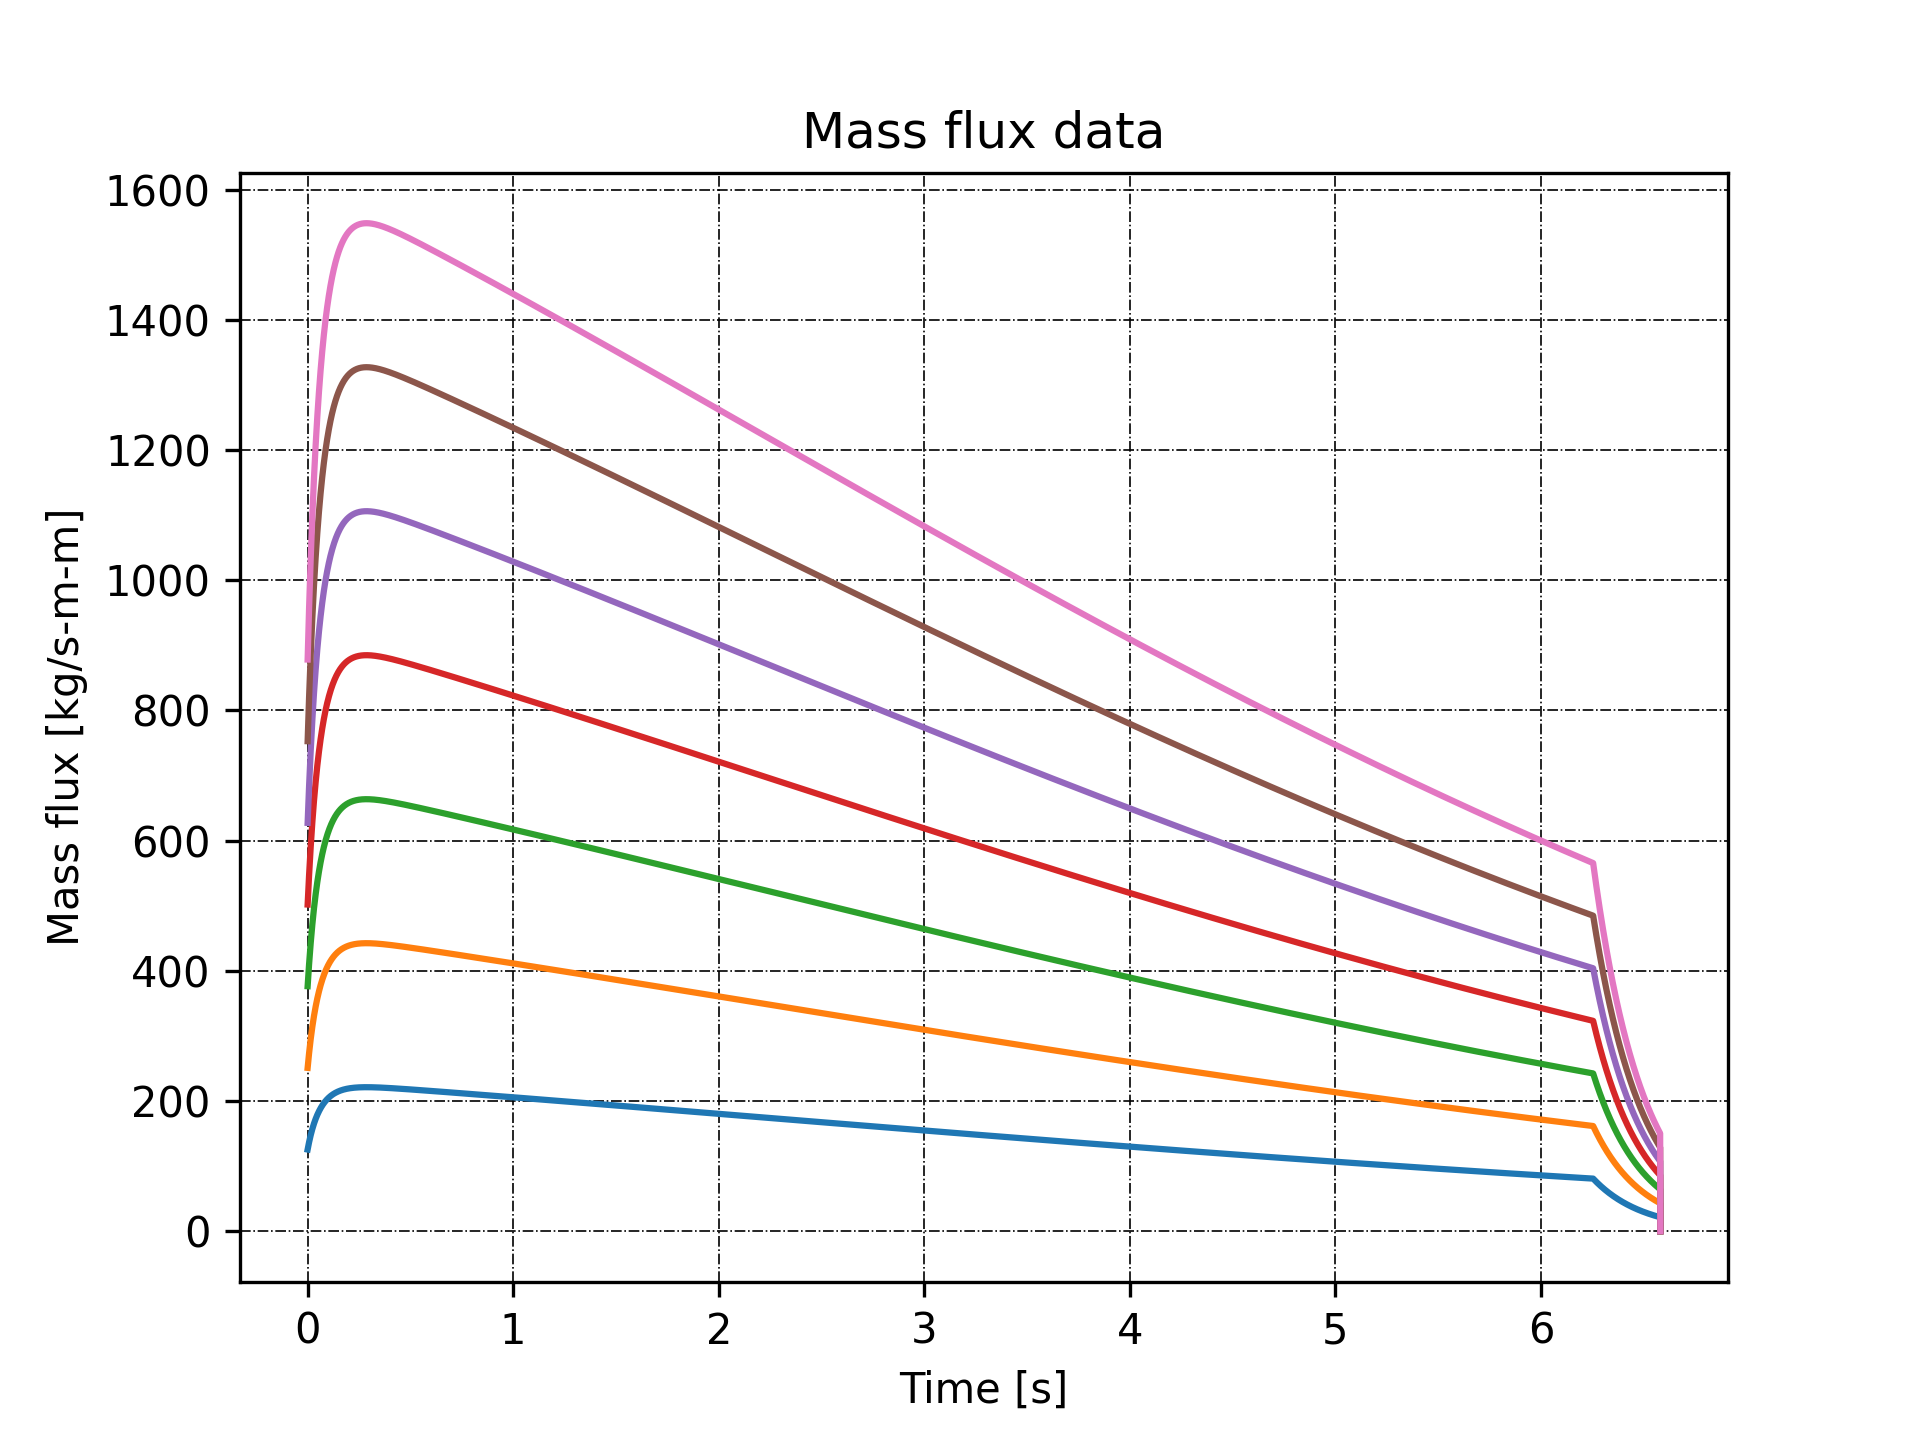
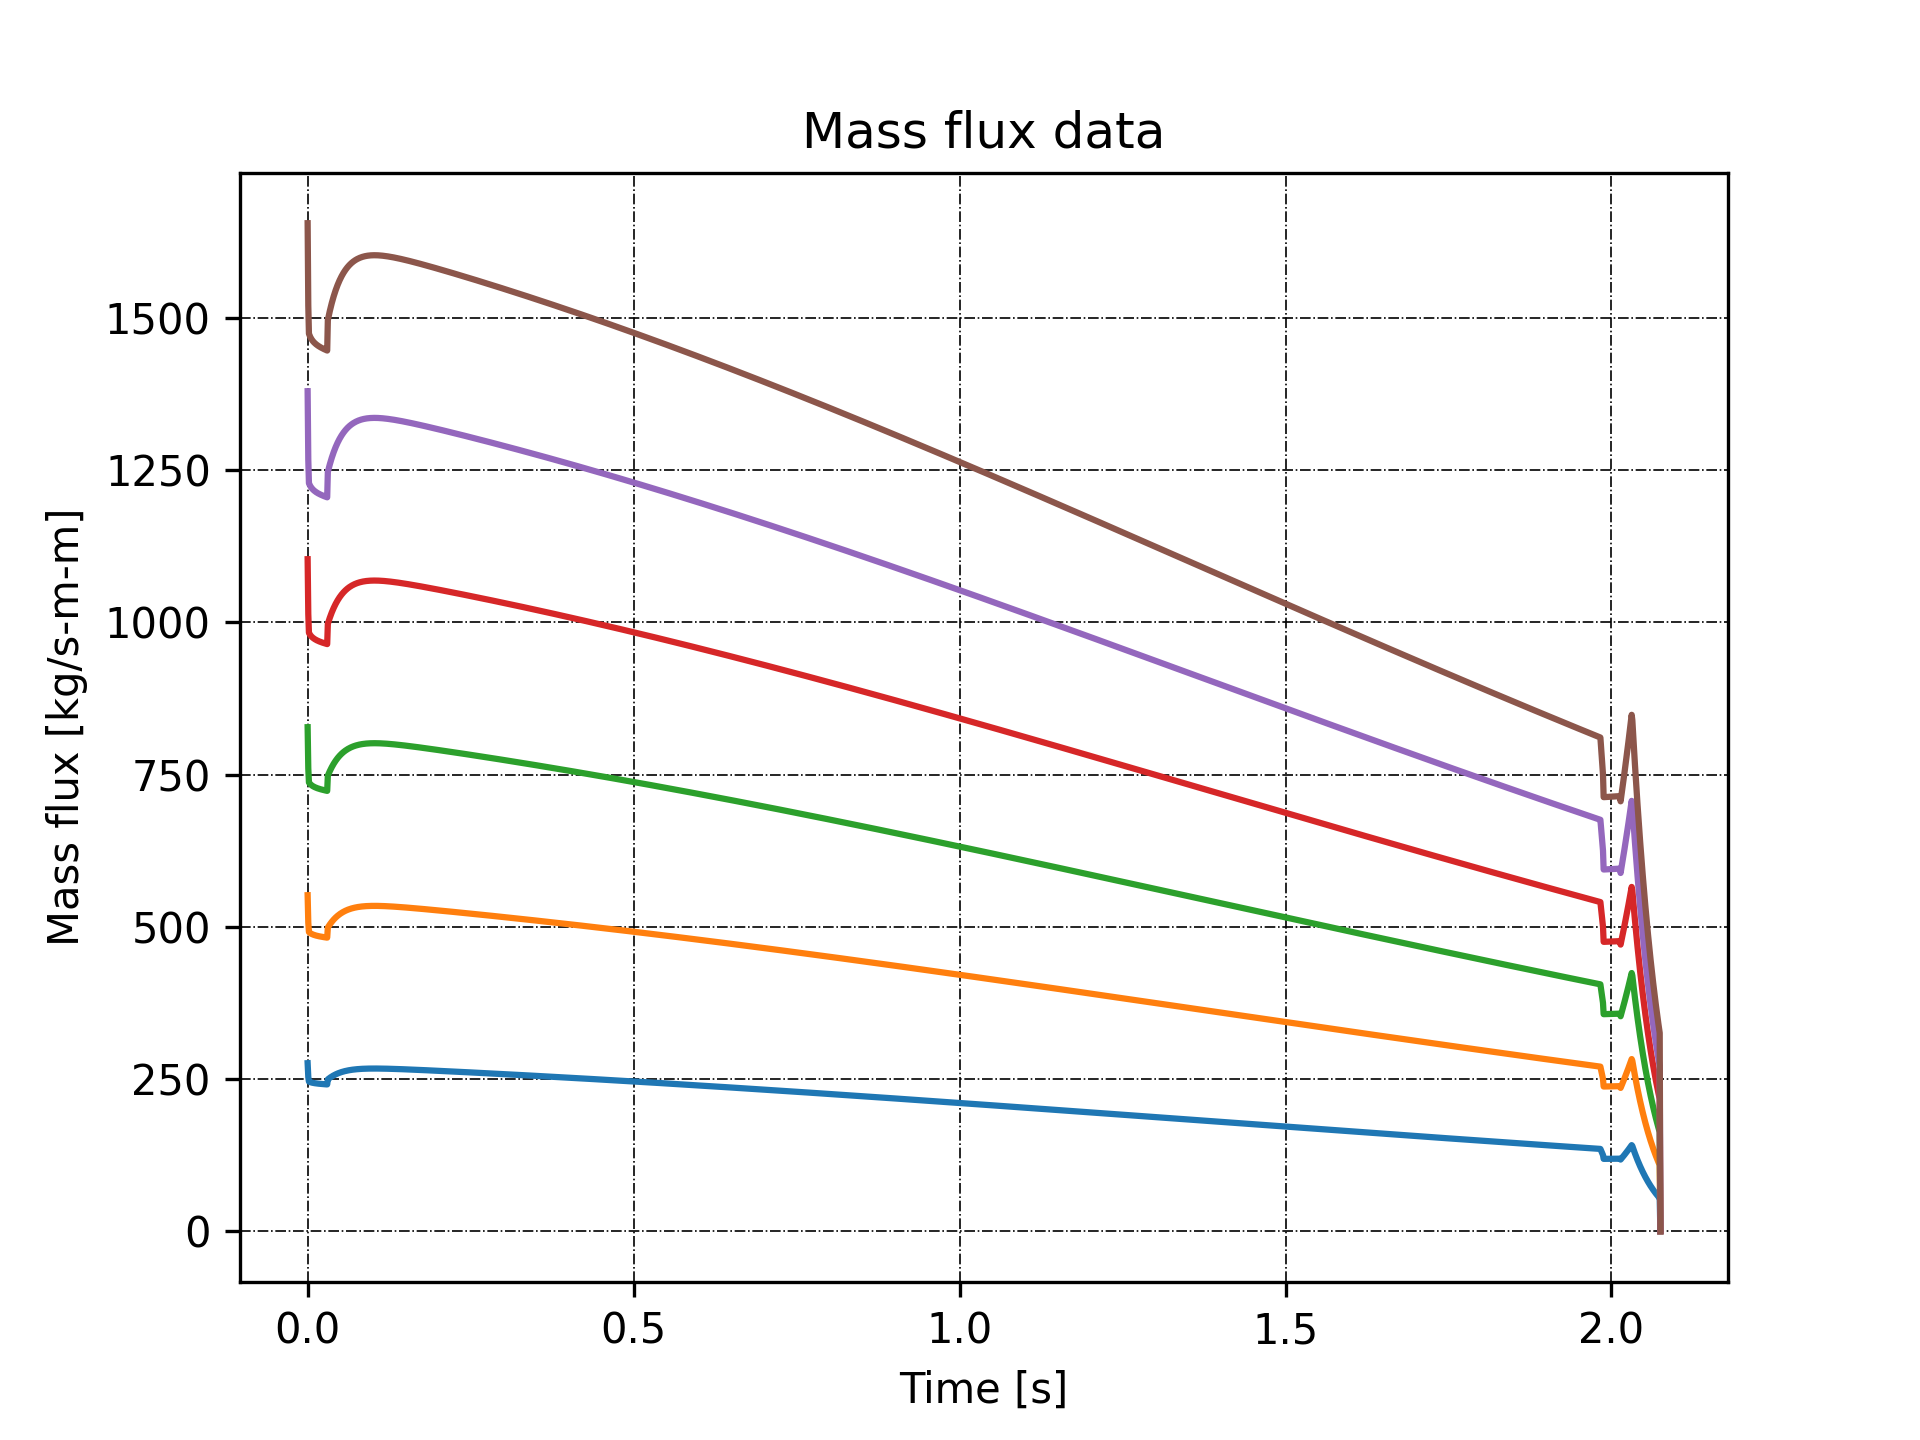
Version Alpha

diff --git a/SRM Solver.py b/SRM Solver.py
@@ -70,7 +70,7 @@ name = 'NV3'
 # Motor manufacturer (NO SPACES):
 manufacturer = 'LP'
 # Motor structural mass [kg]:
-m_motor = 4.5
+m_motor = 20
 
 # SIMULATION PARAMETERS INPUT
 # Web regression resolution:
@@ -84,17 +84,17 @@ sf = 4
 
 # BATES PROPELLANT INPUT
 # Grain count
-N = 7
+N = 6
 # Grain external diameter [m]
-D_grain = 120e-3
+D_grain = 78e-3
 # Grains 1 to 'N' core diameter [m]
-D_core = np.array([51, 51, 51, 51, 51, 51, 51]) * 1e-3
+D_core = np.array([42, 42, 42, 42, 42, 42]) * 1e-3
 # Grains 1 to 'N' length [m]
-L_grain = np.array([203, 203, 203, 203, 203, 203, 203]) * 1e-3
+L_grain = np.array([138, 138, 138, 138, 138, 138]) * 1e-3
 
 # PROPELLANT CHARACTERISTICS INPUT
 # Propellant name
-propellant = 'kner'
+propellant = 'knsb-nakka'
 
 # EXTERNAL CONDITIONS
 # External temperature [K]
@@ -106,7 +106,7 @@ P_igniter = 1e6
 
 # NOZZLE DIMENSIONS
 # Throat diameter [m]
-D_throat = 28.5e-3
+D_throat = 24e-3
 # Nozzle material yield strength [Pa]
 Y_nozzle = 215e6
 # Nozzle divergent and convergent angle [degrees]
@@ -117,11 +117,11 @@ C2 = 0.00000
 
 # COMBUSTION CHAMBER
 # Chamber inside diameter [m]
-D_in = 139.7e-3
+D_in = 82.55e-3
 # Chamber outside diameter [m]
-D_out = 152.4e-3
+D_out = 88.9e-3
 # Grain spacing [m]
-grain_spacing = 15e-3
+grain_spacing = 5e-3
 # Chamber yield strength [Pa]
 Y_cc = 240e6
 # Bulkhead yield strength [Pa]

diff --git a/functions/propellant.py b/functions/propellant.py
@@ -50,7 +50,7 @@ def prop_data(prop: str):
                                                                                         kndx.M_ex, kndx.Isp_frozen, \
                                                                                         kndx.Isp_shifting, \
                                                                                         kndx.qsi_ch, kndx.qsi_ex
-    elif prop.lower() == 'knsb':
+    elif prop.lower() == 'knsb' or prop.lower() == 'knsb-nakka':
         ce, pp, k_ch, k_ex, T0_ideal, M_ch, M_ex, Isp_frozen, Isp_shifting, qsi_ch, qsi_ex = knsb.ce, knsb.pp, \
                                                                                         knsb.k_ch, knsb.k_ex, \
                                                                                         knsb.T0_ideal, knsb.M_ch, \
